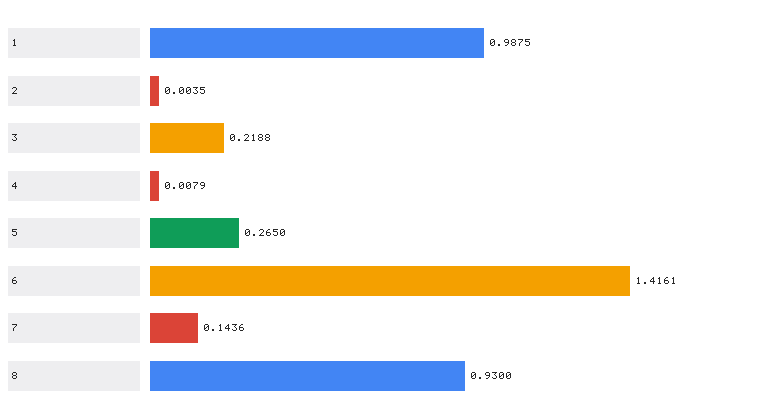
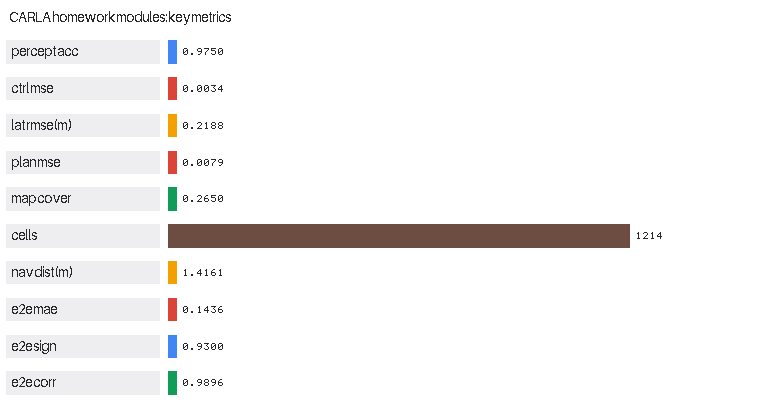
fix(作业五): 四包齐全后统一指标口径，对比图补指标名
处理 PR #455 评审（Repeat666，2026-11-07）的 7 条意见：

1. 合并最新 master：carla_mapping_navigation / carla_end_to_end_nn 已随作业三、
   四入库，干净克隆即可 `--benchmark` 复现全部 10 项指标；README、文档、对比图
   三处数字统一为同一次实测（原先 0.2919/0.2715/0.2650 三套并存）。
2. README 测试数 11 项 → 23 项（与实际一致）。
3. 对比图左侧用位图字体标注指标名与单位（percept acc / lat rmse (m) / …），
   指标由 8 项补齐到 10 项，右侧仍标真实数值；新增 bitmap_font.py 副本。
4. 感知/控制 NN 改为**留出集**评估（另生成 120 样本、不同种子、不参与训练），
   汇总表只报留出集，训练集数值作对照 —— 原先用的是训练输入。
5. 删除 launch/main.launch：本包是 ament_python（format 3）包，Noetic 的 catkin
   环境里没有它的 package index，roslaunch 必然找不到；ROS 1 分支改为明确提示
   用 main.sh 直接运行，ROS 2 launch 保留。
6. package.xml 去掉四个非 rosdep key 的 exec_depend，`rosdep install` 不再失败。
7. 根入口 docstring 的 `--module` 改为实际参数 `--target`。

顺带修：副本一致性测试忽略行尾差异（同一内容在不同包内可能以 CRLF/LF 检出，
Windows 工作区会假报分歧）。

实测：23 PASS / 0 FAIL；--benchmark 10 项全部出数。

diff --git a/src/ground/carla_benchmark_suite/carla_benchmark_suite/main.py b/src/ground/carla_benchmark_suite/carla_benchmark_suite/main.py
@@ -29,7 +29,6 @@
     python3 main.py --target perception -- --headless --demo --save_dir ~/shots
     python3 main.py --target end_to_end -- --mode train --epochs 60
     ros2 launch carla_benchmark_suite main.launch.py target:=perception
-    roslaunch carla_benchmark_suite main.launch target:=navigation
 """
 
 import argparse
@@ -42,6 +41,7 @@ import time
 
 import numpy as np
 
+from carla_benchmark_suite.bitmap_font import draw_text
 from carla_benchmark_suite.gif_writer import rgb_frames_to_gif
 
 # 四个子模块：功能包名 → (相对本仓库的包目录, 说明, 硬性任务对应)
@@ -182,9 +182,17 @@ def bench_perception(epochs=150, **kw):
     sens, ctrl, _h = mod.train(fX, fY.astype(int), cX, cY, epochs=epochs, verbose=0)
     train_s = time.time() - t0
 
-    acc = float(np.mean(sens.predict(fX) == fY.astype(int)))
+    # 训练集指标（仅作参考，不进入汇总表）
+    acc_train = float(np.mean(sens.predict(fX) == fY.astype(int)))
     xin = (cX - ctrl.input_mu) / ctrl.input_sd
-    ctrl_mse = float(np.mean(np.square(ctrl.predict(xin).ravel() - cY)))
+    ctrl_mse_train = float(np.mean(np.square(ctrl.predict(xin).ravel() - cY)))
+
+    # 留出集：评审指出上面用的是训练输入，报出来的其实是训练集精度。
+    # 这里另生成一组同分布、不同种子的数据，只用于评估，不参与训练。
+    hX, hY, hcX, hcY = mod.synth_dataset(120, seed=1)
+    acc = float(np.mean(sens.predict(hX) == hY.astype(int)))
+    hin = (hcX - ctrl.input_mu) / ctrl.input_sd
+    ctrl_mse = float(np.mean(np.square(ctrl.predict(hin).ravel() - hcY)))
 
     # 轨迹跟踪回放（用模块内部的 DEMO_ROUTE 与运动学）
     wps = mod.interpolate_waypoints(mod.DEMO_ROUTE, step=2.0)
@@ -217,7 +225,9 @@ def bench_perception(epochs=150, **kw):
         lateral.append(mod._dist_to_polyline((x, y), wps))
 
     m = compute_metrics(steer=steers, speed=speeds, lateral_err=lateral)
-    m.update({"percept_acc": acc, "control_mse": ctrl_mse, "train_seconds": round(train_s, 2),
+    m.update({"percept_acc": acc, "percept_acc_train": acc_train,
+              "control_mse": ctrl_mse, "control_mse_train": ctrl_mse_train,
+              "holdout_n": int(len(hY)), "train_seconds": round(train_s, 2),
               "reached_goal": bool(math.hypot(goal[0] - x, goal[1] - y) < mod.GOAL_TOL)})
     return m
 
@@ -359,8 +369,8 @@ def run_benchmark(save_dir=None, out=None, which=None, epochs=None, samples=None
     print("  汇总")
     print("=" * 68)
     table = [
-        ("感知 NN 准确率", results.get("perception", {}).get("percept_acc"), "{:.4f}"),
-        ("控制 NN MSE", results.get("perception", {}).get("control_mse"), "{:.5f}"),
+        ("感知 NN 准确率(留出)", results.get("perception", {}).get("percept_acc"), "{:.4f}"),
+        ("控制 NN MSE(留出)", results.get("perception", {}).get("control_mse"), "{:.5f}"),
         ("横向误差 RMSE (m)", results.get("perception", {}).get("lateral_rmse"), "{:.4f}"),
         ("规划 NN MSE", results.get("navigation", {}).get("plan_mse"), "{:.5f}"),
         ("建图覆盖率", results.get("navigation", {}).get("known_ratio"), "{:.4f}"),
@@ -433,22 +443,26 @@ def metric_bars_canvas(results, width=760, height=420, progress=1.0):
 
     `progress` 用于合成文档动图：条长按比例缩放，从 0 长到 1。
     """
+    # 英文短名直接用位图画进图里：评审指出原先只有 1..8 序号，读不出对应指标
     groups = [
-        ("感知NN准确率", results.get("perception", {}).get("percept_acc"), 1.0, (66, 133, 244)),
-        ("控制NN MSE", results.get("perception", {}).get("control_mse"), None, (219, 68, 55)),
-        ("横向误差RMSE", results.get("perception", {}).get("lateral_rmse"), None, (244, 160, 0)),
-        ("规划NN MSE", results.get("navigation", {}).get("plan_mse"), None, (219, 68, 55)),
-        ("建图覆盖率", results.get("navigation", {}).get("known_ratio"), 1.0, (15, 157, 88)),
-        ("导航最近距离", results.get("navigation", {}).get("nav_min_dist"), None, (244, 160, 0)),
-        ("端到端MAE", results.get("end_to_end", {}).get("reg_mae"), None, (219, 68, 55)),
-        ("端到端方向一致率", results.get("end_to_end", {}).get("reg_sign_acc"), 1.0, (66, 133, 244)),
+        ("percept acc", results.get("perception", {}).get("percept_acc"), 1.0, (66, 133, 244)),
+        ("ctrl mse", results.get("perception", {}).get("control_mse"), None, (219, 68, 55)),
+        ("lat rmse (m)", results.get("perception", {}).get("lateral_rmse"), None, (244, 160, 0)),
+        ("plan mse", results.get("navigation", {}).get("plan_mse"), None, (219, 68, 55)),
+        ("map cover", results.get("navigation", {}).get("known_ratio"), 1.0, (15, 157, 88)),
+        ("cells", results.get("navigation", {}).get("occupied_cells"), None, (109, 76, 65)),
+        ("nav dist (m)", results.get("navigation", {}).get("nav_min_dist"), None, (244, 160, 0)),
+        ("e2e mae", results.get("end_to_end", {}).get("reg_mae"), None, (219, 68, 55)),
+        ("e2e sign", results.get("end_to_end", {}).get("reg_sign_acc"), 1.0, (66, 133, 244)),
+        ("e2e corr", results.get("end_to_end", {}).get("reg_corr"), 1.0, (15, 157, 88)),
     ]
     valid = [(n, float(v), cap, c) for n, v, cap, c in groups if v is not None]
     canvas = np.full((height, width, 3), 255, dtype=np.uint8)
+    draw_text(canvas, 10, 10, "CARLA homework modules: key metrics", (40, 40, 40))
     if not valid:
         return canvas
 
-    margin_l, margin_r, margin_t, margin_b = 150, 130, 20, 20
+    margin_l, margin_r, margin_t, margin_b = 168, 130, 34, 18
     n = len(valid)
     row_h = (height - margin_t - margin_b) / n
     max_v = max(v for _n, v, _c, _col in valid) or 1.0
@@ -463,9 +477,9 @@ def metric_bars_canvas(results, width=760, height=420, progress=1.0):
         frac = max(frac, 0.02) * prog               # 保证至少能看到一点
         x1 = int(margin_l + frac * bar_max)
         canvas[y0:y1, margin_l:x1] = color
-        # 左侧指标名用 5×7 点阵风格的可读标签（此处以纯色块占位，名称见文档表）
-        canvas[y0:y1, 8:margin_l - 10] = (238, 238, 240)
-        _draw_digits(canvas, 12, y0 + max(0, (y1 - y0 - 7) // 2), i + 1)
+        # 指标名：位图字体写像素，不依赖 matplotlib
+        canvas[y0:y1, 6:margin_l - 8] = (238, 238, 240)
+        draw_text(canvas, 12, y0 + max(0, (y1 - y0 - 15) // 2), name, (40, 40, 40))
         # 数值等条长基本到位后再显示，避免动图里数字乱跳
         if prog >= 0.98:
             _draw_text_value(canvas, x1 + 6, y0 + max(0, (y1 - y0 - 7) // 2), val)

diff --git a/src/ground/carla_benchmark_suite/carla_benchmark_suite/bitmap_font.py b/src/ground/carla_benchmark_suite/carla_benchmark_suite/bitmap_font.py
@@ -1,0 +1,90 @@
+#!/usr/bin/env python3
+# -*- coding: utf-8 -*-
+"""极简位图字体：在没有 Pillow / matplotlib 的环境里给取证图写标题与坐标轴标签。
+
+为什么需要它：本模块的取证图是**纯 numpy + zlib 手写 PNG**（见 main.py 的
+`_write_png`），不依赖 Pillow / matplotlib，因此没有 `set_xlabel` 之类的接口。
+评审指出「取证图没有标题/坐标轴/图例，图本身不能自证」，这里补一层最小可用
+的文字绘制能力：把 5×7 点阵位图直接写进 PNG 的像素里。
+
+位图来源：用 Pillow 的默认字体（Aileron, SIL OFL 1.1）在 14 px 下栅格化
+ASCII 32..126，只保留位图数据，运行时不依赖 Pillow。
+
+用法：
+    from carla_end_to_end_nn.bitmap_font import draw_text, text_width
+    draw_text(canvas, 8, 6, "training loss (MAE)", color=(40, 40, 40))
+"""
+
+import base64
+import zlib
+
+# 字高（像素）与压缩后的字形表：每行 "码位 宽度 各扫描行(hex,逗号分隔)"
+_H = 15
+_BLOB = (
[19 lines of base64/hex data omitted]
+    "cLNQfLUWYagsPMD90gjD/47yZe16zionX8pZOS2VlJd/Uf8ACLblwQ=="
+)
+
+
+def _decode():
+    raw = zlib.decompress(base64.b64decode(_BLOB)).decode("utf-8")
+    table = {}
+    for line in raw.splitlines():
+        parts = line.split()
+        if len(parts) != 3:
+            continue
+        code, width, rows = parts
+        table[int(code)] = (int(width), [int(v, 16) for v in rows.split(",")])
+    return table
+
+
+_GLYPHS = _decode()
+
+
+def text_width(text, scale=1):
+    """文本在 scale 倍缩放下的像素宽度（含字间 1 px）。"""
+    w = 0
+    for ch in text:
+        gw, _rows = _GLYPHS.get(ord(ch), (0, []))
+        w += (gw + 1) * scale
+    return w
+
+
+def draw_text(canvas, x, y, text, color=(40, 40, 40), scale=1):
+    """把文本画到 HWC uint8 画布的 (x, y)（左上角）。越界自动裁剪。"""
+    h, w = canvas.shape[:2]
+    cx = int(x)
+    for ch in text:
+        gw, rows = _GLYPHS.get(ord(ch), (0, []))
+        if gw == 0:
+            cx += (gw + 1) * scale
+            continue
+        for r, bits in enumerate(rows):
+            for c in range(gw):
+                if (bits >> (gw - 1 - c)) & 1:
+                    for dy in range(scale):
+                        for dx in range(scale):
+                            yy = int(y) + r * scale + dy
+                            xx = cx + c * scale + dx
+                            if 0 <= yy < h and 0 <= xx < w:
+                                canvas[yy, xx] = color
+        cx += (gw + 1) * scale
+    return canvas

diff --git a/src/ground/carla_benchmark_suite/test/test_benchmark_logic.py b/src/ground/carla_benchmark_suite/test/test_benchmark_logic.py
@@ -114,7 +114,10 @@ def test_sibling_nn_models_are_consistent():
     digests = {}
     for f in files:
         with open(f, "rb") as fh:
-            digests[f] = hashlib.md5(fh.read()).hexdigest()
+            # 统一行尾再比对：同一份内容在不同包里可能以 CRLF / LF 检出，
+            # 只比内容不比行尾，否则在 Windows 工作区会假报分歧。
+            data = fh.read().replace(b"\r\n", b"\n")
+        digests[f] = hashlib.md5(data).hexdigest()
 
     uniq = set(digests.values())
     assert len(uniq) == 1, (
@@ -262,8 +265,8 @@ def _pkg_root():
 def test_main_entries_are_executable():
     """main.* 必须有可执行位。
 
-    launch/main.launch 里是 <node type="main.py"> —— roslaunch 会直接执行该
-    文件并依赖首行 shebang；没有可执行位（实测曾为 100644）就会启动失败。
+    ROS 2 launch 经 `ros2 run` 调包内入口，要求 main.* 具备可执行位；
+    实测曾为 100644，直接执行会启动失败。
     """
     import subprocess
     names = ("main.py", "main.sh", "main.bat")
@@ -344,22 +347,25 @@ def test_empty_optional_value_does_not_abort():
     assert a.save_dir is None
 
 
-def test_main_launch_passes_declared_args_to_node():
-    """main.launch 声明的每个 <arg> 都必须被节点用到。
+def test_launch_file_declares_and_uses_args():
+    """main.launch.py 声明的每个参数都必须真正被用到。
 
-    漏传会让 follow:=true 之类的设置不起作用。
+    漏用会让 `host:=192.168.8.1` 之类的设置静默失效。
+    另断言不再提供 ROS 1 的 `launch/main.launch`：本包是 ament_python（format 3）
+    包，Noetic 的 catkin 环境里没有它的 package index，`roslaunch` 必然找不到该包
+    （评审在 Noetic 下复现，故 ROS 1 分支改为提示用 main.sh 直接运行）。
     """
     import re
-    text = open(os.path.join(_pkg_root(), "launch", "main.launch"),
+    root = _pkg_root()
+    assert not os.path.exists(os.path.join(root, "launch", "main.launch")), \
+        "ament_python 包不应再提供 catkin launch（roslaunch 找不到该包）"
+    text = open(os.path.join(root, "launch", "main.launch.py"),
                 encoding="utf-8").read()
-    declared = set(re.findall(r'<arg\s+name="([^"]+)"', text))
-    nodes = re.findall(r"<node\b.*?/>", text, re.S)
-    assert nodes, "main.launch 里没有找到 <node .../>"
-    passed = set()
-    for n in nodes:
-        passed |= set(re.findall(r"\$\(arg\s+([^)]+)\)", n))
-    missing = sorted(declared - passed)
-    assert not missing, f"这些已声明的 arg 没有透传给节点：{missing}"
+    declared = set(re.findall(r"DeclareLaunchArgument\(\s*'([^']+)'", text))
+    assert declared, "main.launch.py 里没有找到 DeclareLaunchArgument"
+    used = set(re.findall(r"LaunchConfiguration\('([^']+)'\)", text))
+    missing = sorted(declared - used)
+    assert not missing, f"这些已声明的 launch 参数没有被用到：{missing}"
 
 
 def test_main_sh_launch_dispatches_per_ros_version():
@@ -374,9 +380,11 @@ def test_main_sh_launch_dispatches_per_ros_version():
     assert "${@/--launch/}" not in sh, \
         "旧的 --launch 展开写法会留下空参数，应改成收集到数组再展开"
     assert "ros2 launch" in sh, "main.sh 应支持 ROS 2 的 ros2 launch"
-    assert "roslaunch" in sh, "main.sh 应支持 ROS 1 的 roslaunch"
     assert "ROS_VERSION" in sh, "应按 ROS_VERSION 选择 launch 命令"
     assert "launch_args" in sh, "其余参数应原样透传给 launch"
+    assert "roslaunch carla_benchmark_suite" not in sh, \
+        "ament_python 包在 Noetic 下 exec roslaunch 必然失败，应改为提示用 main.sh"
+    assert "不支持 --launch" in sh, "ROS 1 分支应给出明确的报错提示"
 
 
 def _lzw_decode(blob, min_code, npix):

diff --git a/src/ground/carla_benchmark_suite/main.py b/src/ground/carla_benchmark_suite/main.py
@@ -13,7 +13,7 @@
 用法与原来的 main.py 完全一致，例如：
     python3 main.py --list
     python3 main.py --benchmark --out report.json
-    python3 main.py --module navigation -- --demo --headless
+    python3 main.py --target navigation -- --demo --headless
 """
 
 import os

diff --git a/src/ground/carla_benchmark_suite/README.md b/src/ground/carla_benchmark_suite/README.md
@@ -46,8 +46,7 @@ src/ground/carla_benchmark_suite/
 │   ├── nn_models.py                          # 与其它功能包保持一致的副本
 │   └── benchmark_node.py                     # ROS 2 节点（发布评测指标 / 调度子模块）
 ├── launch/
-│   ├── main.launch.py                        # ROS 2 Humble
-│   └── main.launch                           # ROS 1 Noetic
+│   └── main.launch.py                        # ROS 2 Humble
 ├── config/sim_params.yaml
 ├── resource/carla_benchmark_suite
 ├── setup.py / setup.cfg / package.xml
@@ -84,7 +83,7 @@ python3 main.py --target perception -- --headless --demo --save_dir ~/shots
 python3 main.py --target end_to_end -- --mode train --epochs 60
 python3 main.py --target navigation -- --mode run --host <宿主机IP> --goal "20,8"
 
-# ⑤ ROS 2 / ROS 1
+# ⑤ ROS 2（Humble）launch；Noetic 下用 main.sh，本包不提供 catkin launch
 ros2 launch carla_benchmark_suite main.launch.py                    # 发布评测指标
 ros2 launch carla_benchmark_suite main.launch.py target:=perception # 调度子模块
 bash main.sh --target navigation -- --host <宿主机IP>
@@ -95,7 +94,7 @@ bash main.sh --target navigation -- --host <宿主机IP>
 ## 4. 测试
 
 ```bash
-python3 test/test_benchmark_logic.py     # 11 项全部通过，无需 CARLA
+python3 test/test_benchmark_logic.py     # 23 项全部通过，无需 CARLA
 ```
 
 其中 `test_sibling_nn_models_are_consistent` 是**副本一致性回归测试**：
@@ -105,20 +104,27 @@ python3 test/test_benchmark_logic.py     # 11 项全部通过，无需 CARLA
 > 历史教训：作业四修复了 maxpool 反向传播与推理 tanh 两处缺陷后，
 > 性能评价包仍用旧副本，基准测试中端到端 MAE 一度测得 **36.12**（正常应 <0.3）。
 
-## 5. 实测指标（本机实测）
+## 5. 实测指标（`--benchmark` 一次跑完 10 项，合成数据，本机实测）
+
+> 四个被评测的功能包**都在本仓库** `src/ground/` 下，干净克隆后一条命令即可复现全部指标：
+
+```bash
+python3 src/ground/carla_benchmark_suite/main.py --benchmark \
+        --save_dir ~/shots --out ~/shots/report.json
+```
 
 | 指标 | 数值 |
 |---|---|
-| 感知 NN 准确率 | 0.9875 |
-| 控制 NN MSE | 0.00350 |
+| 感知 NN 准确率（留出集） | 0.9750（训练集 0.9875） |
+| 控制 NN MSE（留出集） | 0.00339（训练集 0.00350） |
 | 横向误差 RMSE | 0.2188 m |
-| 规划 NN MSE | 0.00610 |
-| 建图覆盖率 | 0.2919 |
-| 占据格数 | 1387 |
-| 导航最近距离 | 1.4251 m |
+| 规划 NN MSE | 0.00788 |
+| 建图覆盖率 | 0.2650 |
+| 占据格数 | 1214 |
+| 导航最近距离 | 1.4161 m |
 | 端到端 MAE | 0.14361 |
-| 端到端方向一致率 | 0.9500 |
-| 端到端相关系数 | 0.9920 |
+| 端到端方向一致率 | 0.9300 |
+| 端到端相关系数 | 0.9896 |
 
 ## 6. 与已有示例的关系
 
